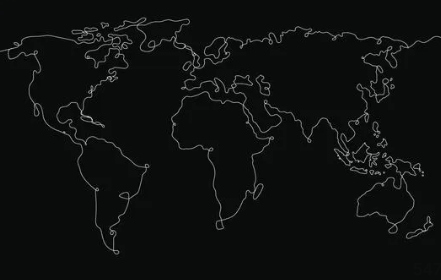
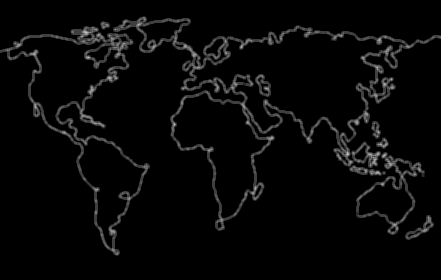
Add map zoom controls, red pins, placeholder smoothed map image
- Project Locations map now has 25/50/75/100% zoom buttons; zooming
  past 25% auto-centers on the Asia cluster where pins overlap most,
  and the map pans within a fixed-size window at every zoom level
- Pins changed to red
- Reprocessed the map background to a simplified black/grey palette
  (threshold + blur) as a placeholder — still a bit too blurry, will
  revisit with a sharper approach later

diff --git a/js/main.js b/js/main.js
@@ -9,6 +9,7 @@ const state = {
   draftPostIds: new Set(),
   activeTags: new Set(), // lowercase tag names currently filtering
   activeSubtag: null, // lowercase sub-tag narrowing the grid without changing the heading
+  mapZoom: 25, // 25/50/75/100 — 25 shows the whole (cropped) map, 100 is most zoomed in
 };
 
 let editingProjectId = null; // set while the post dialog is in "edit" mode
@@ -483,12 +484,35 @@ function renderTagMap() {
 
 // Everything below this y (out of the 0-500 grid CITY_COORDS uses) is
 // cropped out of the map image — keep in sync with the aspect-ratio set on
-// .location-map-inner in css/style.css.
+// .location-map-crop in css/style.css.
 const MAP_VISIBLE_Y_MAX = 300;
+
+const MAP_ZOOM_LEVELS = [25, 50, 75, 100];
+// Where to auto-center the view when zoomed in past 25% — the Asia cluster
+// is where pins overlap most, so that's the default focus point.
+const MAP_ZOOM_FOCUS = { x: 820, y: 170 };
+
+function renderMapZoomControls() {
+  const el = document.getElementById("map-zoom-controls");
+  if (!el) return;
+
+  el.innerHTML = MAP_ZOOM_LEVELS.map(
+    (z) => `<button type="button" class="map-zoom-btn${z === state.mapZoom ? " active" : ""}" data-zoom="${z}">${z}%</button>`
+  ).join("");
+
+  el.querySelectorAll(".map-zoom-btn").forEach((btn) => {
+    btn.addEventListener("click", () => {
+      state.mapZoom = parseInt(btn.getAttribute("data-zoom"), 10);
+      renderLocationMap();
+    });
+  });
+}
 
 function renderLocationMap() {
   const mapEl = document.getElementById("location-map");
   if (!mapEl) return;
+
+  renderMapZoomControls();
 
   const counts = new Map(); // lowercase city -> { label, count }
   state.projects.forEach((p) => {
@@ -512,9 +536,10 @@ function renderLocationMap() {
 
   // CITY_COORDS is plotted on a 1000x500 grid — convert to percentages so
   // pins land in the same place regardless of the map image's own size.
-  // The map image is cropped to MAP_VISIBLE_Y_MAX (see CSS aspect-ratio on
-  // .location-map-inner) to hide everything south of Indonesia, so top% is
-  // relative to that visible slice, not the full 500.
+  // The map is cropped to MAP_VISIBLE_Y_MAX (hides everything south of
+  // Indonesia) via .location-map-crop's aspect-ratio, so top% is relative
+  // to that visible slice, not the full 500 — this stays true at every
+  // zoom level since the crop box scales as a whole.
   const pinEls = pins
     .map(({ label, count, x, y }) => {
       const size = 10 + Math.min(count * 4, 26);
@@ -534,12 +559,29 @@ function renderLocationMap() {
     ? `<p class="section-hint">Not shown on the map yet — add these to <code>data/city-coords.js</code>: ${unmapped.map(escapeHtml).join(", ")}</p>`
     : "";
 
+  const scale = state.mapZoom / MAP_ZOOM_LEVELS[0];
+
   mapEl.innerHTML = `
     <div class="location-map-inner">
-      <img src="images/world-map.png" alt="World map" class="location-map-img">
-      <div class="location-pins-overlay">${pinEls}</div>
+      <div class="location-map-crop" style="width:${(scale * 100).toFixed(0)}%;">
+        <img src="images/world-map.png" alt="World map" class="location-map-img">
+        <div class="location-pins-overlay">${pinEls}</div>
+      </div>
     </div>
     ${unmappedNote}`;
+
+  const viewport = mapEl.querySelector(".location-map-inner");
+  if (viewport && scale > 1) {
+    requestAnimationFrame(() => {
+      const vw = viewport.clientWidth;
+      const vh = viewport.clientHeight;
+      viewport.scrollLeft = Math.max(0, (MAP_ZOOM_FOCUS.x / 1000) * (vw * scale) - vw / 2);
+      viewport.scrollTop = Math.max(0, (MAP_ZOOM_FOCUS.y / MAP_VISIBLE_Y_MAX) * (vh * scale) - vh / 2);
+    });
+  } else if (viewport) {
+    viewport.scrollLeft = 0;
+    viewport.scrollTop = 0;
+  }
 
   renderTimeline();
 }

diff --git a/css/style.css b/css/style.css
@@ -574,6 +574,35 @@ button {
   padding-bottom: 8px;
 }
 
+.map-zoom-controls {
+  display: flex;
+  gap: 6px;
+  margin: 10px 0 4px;
+}
+
+.map-zoom-btn {
+  border: 1px solid var(--border);
+  background: transparent;
+  color: var(--text-dim);
+  font-family: inherit;
+  font-size: 0.8rem;
+  padding: 4px 10px;
+  border-radius: 999px;
+  cursor: pointer;
+}
+
+.map-zoom-btn:hover {
+  color: var(--text);
+  border-color: var(--accent);
+}
+
+.map-zoom-btn.active {
+  background: var(--accent);
+  color: var(--accent-text);
+  border-color: var(--accent);
+  font-weight: 600;
+}
+
 .location-map {
   /* Full-bleed: break out of the centered .wrap column to span the full
      viewport width, edge to edge, regardless of ancestor max-width. */
@@ -591,7 +620,14 @@ button {
   width: 100%;
   aspect-ratio: 441 / 168;
   background: #000;
-  overflow: hidden;
+  overflow: auto; /* pan around when zoomed in past 25% */
+}
+
+.location-map-crop {
+  position: relative;
+  width: 100%; /* set inline per zoom level (100%/200%/300%/400%) */
+  aspect-ratio: 441 / 168; /* same ratio at every zoom, so the crop line stays fixed */
+  overflow: hidden; /* the image's natural height is taller than this — permanently hides everything south of Indonesia regardless of zoom/scroll */
 }
 
 .location-map-img {
@@ -617,8 +653,8 @@ button {
 .location-pin-dot {
   display: block;
   border-radius: 50%;
-  background: var(--accent);
-  opacity: 0.85;
+  background: #ef4444;
+  opacity: 0.9;
   border: 1px solid rgba(255, 255, 255, 0.7);
 }
 

diff --git a/index.html b/index.html
@@ -61,7 +61,8 @@
 <section class="location-map-section" aria-label="Project Locations">
   <div class="wrap">
     <h2 class="section-title">Project Locations</h2>
-    <p class="section-hint">One pin per city — bigger pins mean more posts</p>
+    <p class="section-hint">One pin per city — bigger pins mean more posts. Zoom in where pins overlap (e.g. Asia), then drag/scroll to pan.</p>
+    <div id="map-zoom-controls" class="map-zoom-controls"></div>
   </div>
 
   <div id="location-map" class="location-map"></div>

diff --git a/README.md b/README.md
@@ -102,6 +102,11 @@ shows up in a small note under the map ("Not shown on the map yet…") so you kn
 city, open `data/city-coords.js` and add an entry using the formula in its comments (based on the
 city's real latitude/longitude).
 
+Use the **25% / 50% / 75% / 100%** buttons above the map to zoom in where pins overlap (Asia usually
+needs it most) — the map scrolls/pans within a fixed-size window at every zoom level, and jumping to
+50%+ auto-centers on Asia (`MAP_ZOOM_FOCUS` in `js/main.js`) since that's normally the densest cluster.
+Pins stay in the same relative spot regardless of zoom.
+
 The map background is a real image, [`images/world-map.png`](images/world-map.png) — pins are
 positioned over it with plain CSS (percentage `left`/`top`), computed in `js/main.js`
 (`renderLocationMap`). To swap in a different map image, replace that file and keep the same
